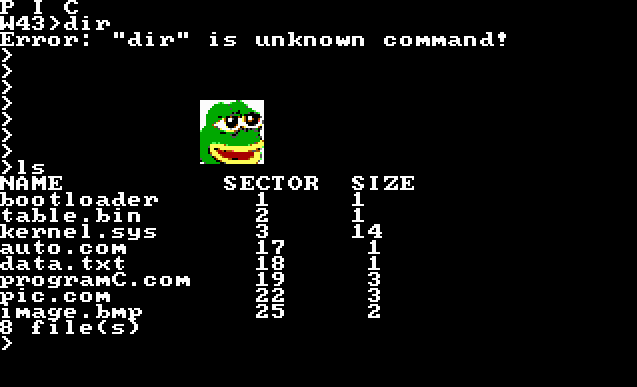
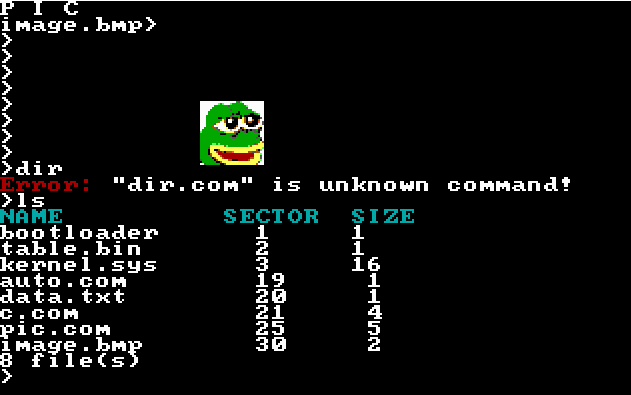
LS and doc improved

diff --git a/kernel/kernel.c b/kernel/kernel.c
@@ -147,13 +147,16 @@ void main() {
 		}
 		else if(strcmp(command, LS)) {
 			size_t i = 0;
-			puts("NAME          SECTOR  SIZE\n");
+			size_t sum = 0;
+			cputs("NAME          SECTOR     SIZE", VGA_COLOR_CYAN);
+			putc('\n');
 			for(; i < numberOfFiles; i++) {
 				puts(files[i].name);
 				for(size_t j = 0; j < FILENAME_MAX - strlen(files[i].name); j++)putc(' ');
-				printf("%i     %i\n", files[i].beginSector, files[i].size);
+				printf("%s%i        %s%i\n", (files[i].beginSector / 10 >= 1 ? "" : "0"), files[i].beginSector, ((files[i].size / 10) >= 1 ? "" : "0"), files[i].size);
+				sum += files[i].size;
 			}
-			printf("%i file(s)\n", i);
+			printf("\n%i file(s)       %s%i sector(s)\n", i, (sum / 10 >= 1 ? "" : "0"), sum);
 		}
 		else {
 			//check if there is program called command+".com"

diff --git a/disk/pic.c b/disk/pic.c
@@ -26,7 +26,7 @@ int main() {
 		return 403;
 	}
 	draw(pos, image_bmp, image_width, image_height);
-	getc();//without KEY it would be removed by -Os
+	getc();
 	setVideoMode(MODE_TEXT);
 	return 0;
 }

diff --git a/README.md b/README.md
@@ -23,8 +23,9 @@ Screenshot:\
 | mode $  | change video mode to $           |
 | test    | test kernel library              |
 | load $  | Load 1 $th sector and execute it |
-| sec     | Print $th sector                 |
+| sec $   | Print $th sector                 |
 | ls      | Print files and their sizes      |
+| pic     | Draw bitmap file                 |
 ## SYSTEM Interruptions
 0x20 is system interruption
 | AH   | Description               | Parameters            |
